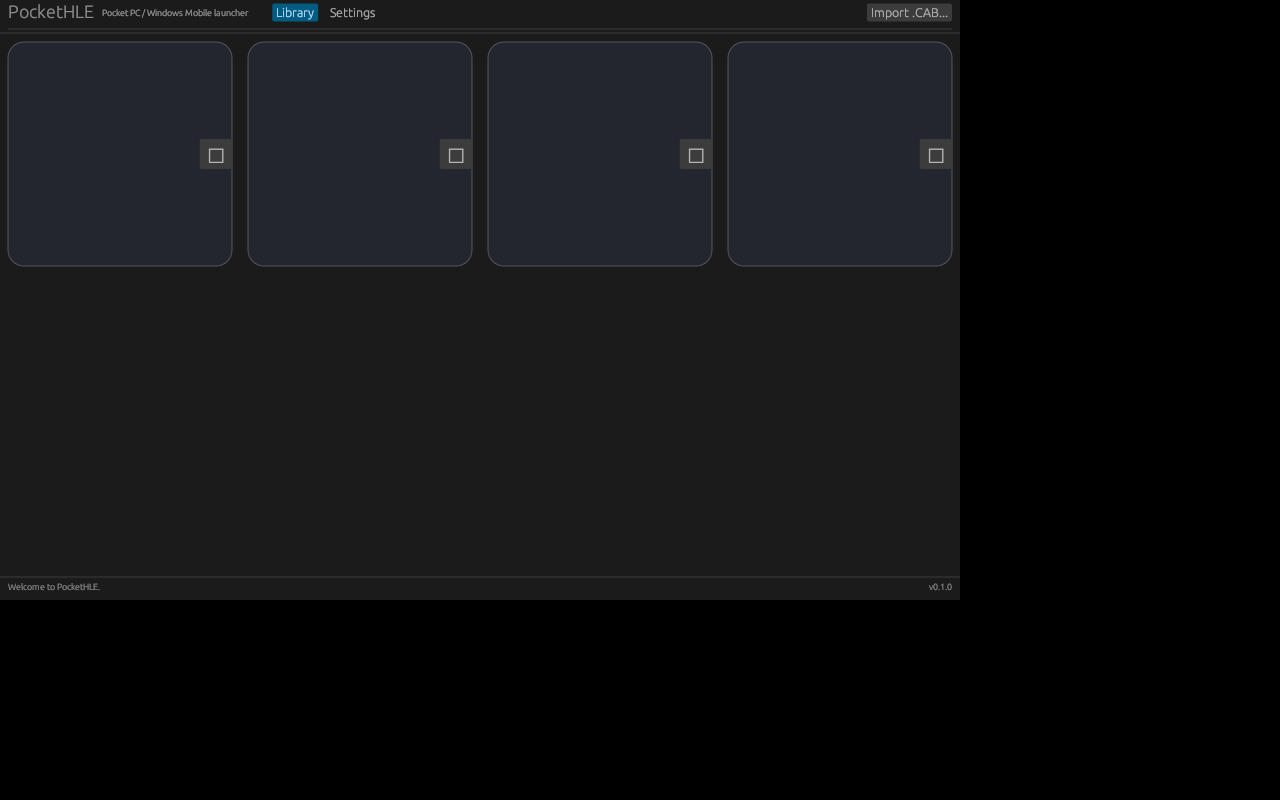
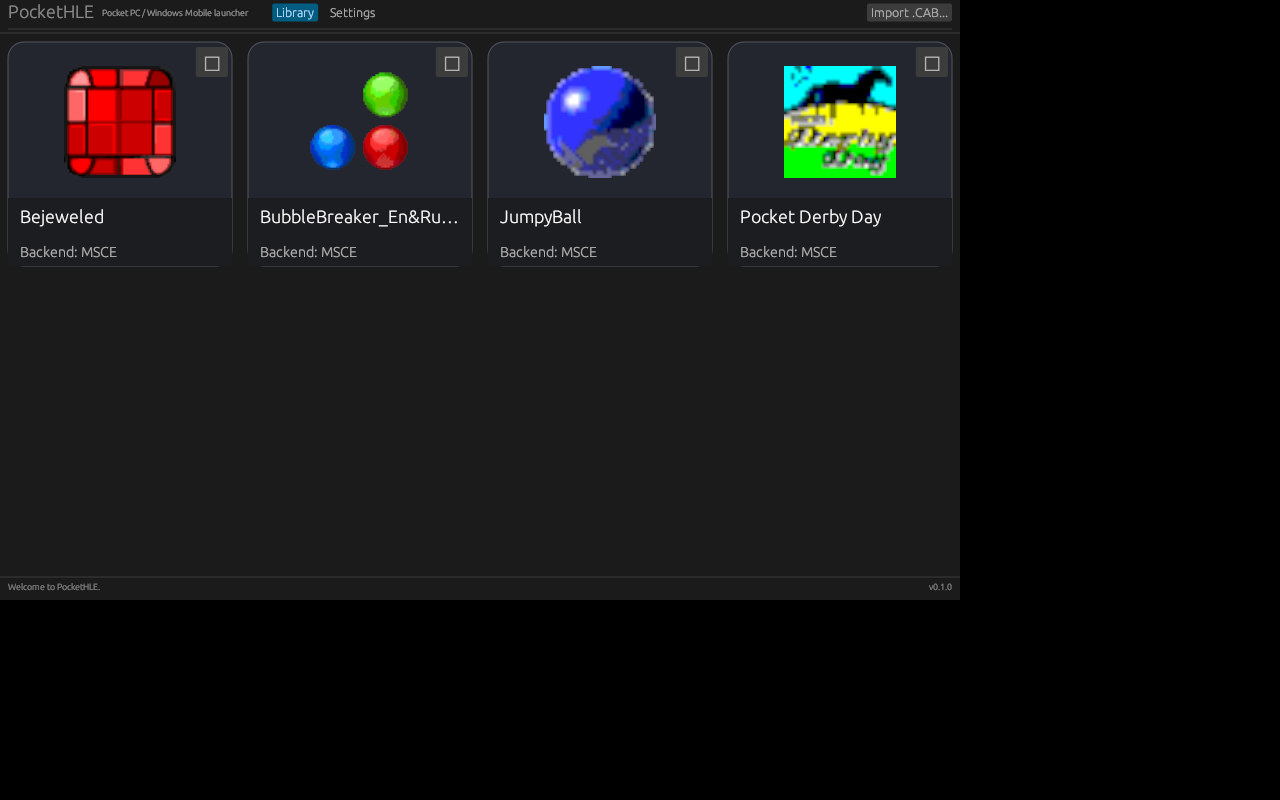
fix(desktop): restore visible game card layout

diff --git a/frontends/pocket-desktop/src/app.rs b/frontends/pocket-desktop/src/app.rs
@@ -341,100 +341,96 @@ impl PocketLauncher {
     }
 
     fn ui_game_card(&mut self, ui: &mut egui::Ui, game: &GameEntry, width: f32) {
-        let card_size = Vec2::new(width, 224.0);
-        let (card_rect, card_response) = ui.allocate_exact_size(card_size, Sense::click());
         let frame = egui::Frame::none()
             .fill(Color32::from_rgb(35, 38, 46))
             .stroke(egui::Stroke::new(1.0_f32, Color32::from_rgb(82, 86, 96)))
             .rounding(16.0)
             .inner_margin(0.0);
-        ui.painter().add(frame.paint(card_rect));
-
-        let menu_rect = Rect::from_min_size(
-            Pos2::new(card_rect.right() - 36.0, card_rect.top() + 4.0),
-            Vec2::new(32.0, 32.0),
-        );
-        let mut menu_ui = ui.child_ui(menu_rect, egui::Layout::right_to_left(egui::Align::Center));
-        menu_ui.menu_button(RichText::new("⋮").size(24.0), |ui| {
-            if ui.button("Settings").clicked() {
-                self.selected_game = Some(game.id.clone());
-                self.game_settings_draft = Some((game.id.clone(), game.settings.clone()));
-                self.screen = Screen::GameSettings;
-                ui.close_menu();
-            }
-            if ui.button("Remove").clicked() {
-                if let Err(e) = self.library.remove(&game.id) {
-                    self.status = format!("Remove failed: {e}");
-                } else {
-                    self.status = format!("Removed {}", game.display_name);
-                }
-                ui.close_menu();
-            }
-        });
-
-        let icon_rect = Rect::from_min_size(
-            Pos2::new(card_rect.left(), card_rect.top() + 4.0),
-            Vec2::new(width, 152.0),
-        );
-        let icon_size = (width - 24.0).clamp(56.0, 112.0);
-        let mut icon_ui = ui.child_ui(
-            icon_rect,
-            egui::Layout::centered_and_justified(egui::Direction::TopDown),
-        );
-        if let Some(path) = game.icon_path(self.library.root()) {
-            if let Ok(bytes) = std::fs::read(path) {
-                if let Ok(image) = load_image_bytes(&bytes) {
-                    let texture = self.icon_cache.entry(game.id.clone()).or_insert_with(|| {
-                        icon_ui.ctx().load_texture(
-                            format!("icon-{}", game.id),
-                            image,
-                            egui::TextureOptions::LINEAR,
-                        )
+        let card = frame.show(ui, |ui| {
+            ui.set_min_width(width);
+            ui.set_max_width(width);
+            ui.vertical(|ui| {
+                ui.set_width(width);
+                ui.with_layout(egui::Layout::right_to_left(egui::Align::Center), |ui| {
+                    ui.menu_button(RichText::new("⋮").size(24.0), |ui| {
+                        if ui.button("Settings").clicked() {
+                            self.selected_game = Some(game.id.clone());
+                            self.game_settings_draft =
+                                Some((game.id.clone(), game.settings.clone()));
+                            self.screen = Screen::GameSettings;
+                            ui.close_menu();
+                        }
+                        if ui.button("Remove").clicked() {
+                            if let Err(e) = self.library.remove(&game.id) {
+                                self.status = format!("Remove failed: {e}");
+                            } else {
+                                self.status = format!("Removed {}", game.display_name);
+                            }
+                            ui.close_menu();
+                        }
                     });
-                    icon_ui.add(
-                        egui::Image::from_texture(&*texture)
-                            .fit_to_exact_size(Vec2::splat(icon_size)),
-                    );
-                } else {
-                    icon_ui.label(RichText::new("📱").size(64.0));
-                }
-            } else {
-                icon_ui.label(RichText::new("📱").size(64.0));
-            }
-        } else {
-            icon_ui.label(RichText::new("📱").size(64.0));
-        }
+                });
 
-        let label_rect = Rect::from_min_size(
-            Pos2::new(card_rect.left(), card_rect.top() + 156.0),
-            Vec2::new(width, 68.0),
-        );
-        ui.painter()
-            .rect_filled(label_rect, 0.0, Color32::from_rgb(28, 29, 32));
-        let text_rect = Rect::from_min_size(
-            Pos2::new(label_rect.left() + 12.0, label_rect.top() + 9.0),
-            Vec2::new(width - 24.0, 50.0),
-        );
-        let mut text_ui = ui.child_ui(text_rect, egui::Layout::top_down(egui::Align::Min));
-        text_ui.set_width(width - 24.0);
-        text_ui.set_height(50.0);
-        let publisher = game
-            .provider
-            .as_deref()
-            .filter(|value| !value.trim().is_empty())
-            .unwrap_or("Unknown");
-        text_ui.add(
-            egui::Label::new(RichText::new(&game.display_name).strong().size(18.0)).truncate(true),
-        );
-        text_ui.add(
-            egui::Label::new(
-                RichText::new(format!("Backend: {publisher}"))
-                    .size(14.0)
-                    .color(Color32::from_gray(180)),
-            )
-            .truncate(true),
-        );
+                let icon_size = (width - 24.0).clamp(56.0, 112.0);
+                ui.allocate_ui_with_layout(
+                    Vec2::new(width, 128.0),
+                    egui::Layout::centered_and_justified(egui::Direction::TopDown),
+                    |ui| {
+                        if let Some(path) = game.icon_path(self.library.root()) {
+                            if let Ok(bytes) = std::fs::read(path) {
+                                if let Ok(image) = load_image_bytes(&bytes) {
+                                    let texture = self
+                                        .icon_cache
+                                        .entry(game.id.clone())
+                                        .or_insert_with(|| {
+                                            ui.ctx().load_texture(
+                                                format!("icon-{}", game.id),
+                                                image,
+                                                egui::TextureOptions::LINEAR,
+                                            )
+                                        });
+                                    ui.add(
+                                        egui::Image::from_texture(&*texture)
+                                            .fit_to_exact_size(Vec2::splat(icon_size)),
+                                    );
+                                    return;
+                                }
+                            }
+                        }
+                        ui.label(RichText::new("📱").size(64.0));
+                    },
+                );
 
+                let publisher = game
+                    .provider
+                    .as_deref()
+                    .filter(|value| !value.trim().is_empty())
+                    .unwrap_or("Unknown");
+                egui::Frame::none()
+                    .fill(Color32::from_rgb(28, 29, 32))
+                    .inner_margin(egui::Margin::symmetric(12.0, 10.0))
+                    .show(ui, |ui| {
+                        ui.set_width(width - 24.0);
+                        ui.add(
+                            egui::Label::new(RichText::new(&game.display_name).strong().size(18.0))
+                                .truncate(true),
+                        );
+                        ui.add(
+                            egui::Label::new(
+                                RichText::new(format!("Backend: {publisher}"))
+                                    .size(14.0)
+                                    .color(Color32::from_gray(180)),
+                            )
+                            .truncate(true),
+                        );
+                    });
+            });
+        });
+        let card_response = ui.interact(
+            card.response.rect,
+            ui.id().with(("game", &game.id)),
+            Sense::click(),
+        );
         if card_response.clicked() {
             self.spawn_run(game);
         }
